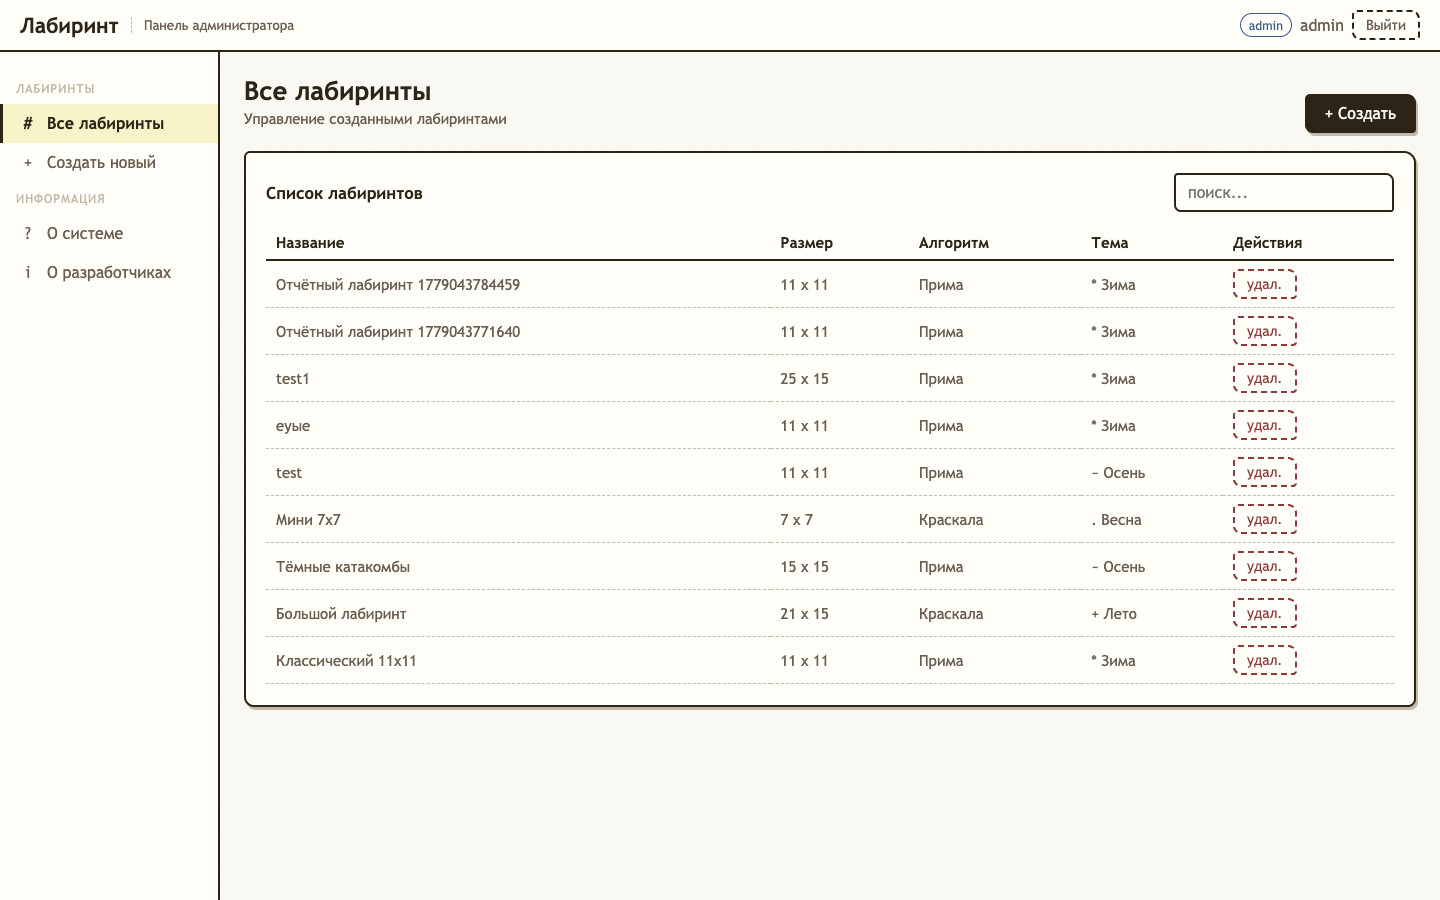
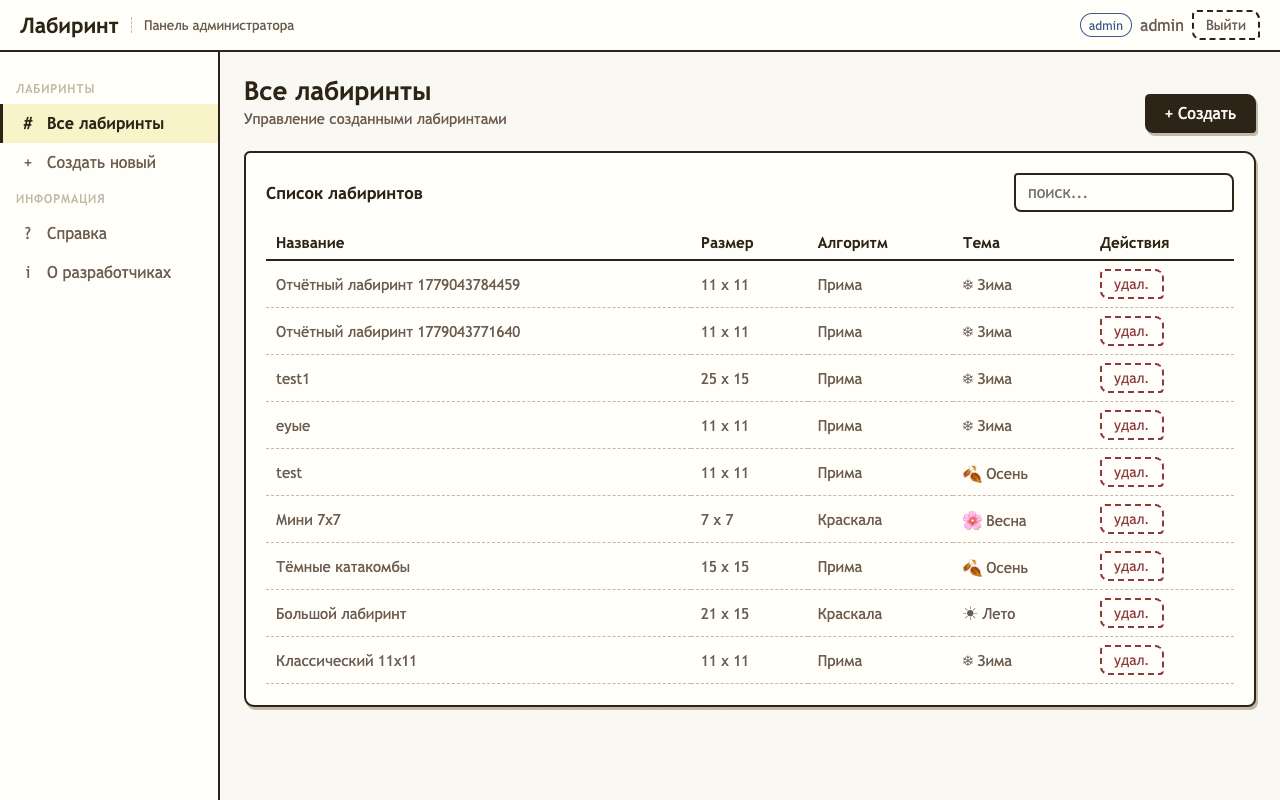
feat: rename help, restyle developers modal, theme emojis, libraries list
- Rename sidebar item "О системе" → "Справка" in admin and player layouts.
- Restyle DevelopersModal to centered "Сведения о разработчиках" layout
  per the reference course-project example.
- Switch theme marks from ASCII (* + ~ .) to seasonal emojis (❄ ☀ 🍂 🌸)
  globally in radio picker, level title and labyrinth cards.
- Add 2.7.6 "Список использованных библиотек" with a reference-style
  table (caption above, two columns Name | Purpose).
- Add a class purpose table to 3.2.3 class diagram section.
- Sync 3.1 interface text to match the new UI wording.
- Refresh screenshots for the changed views.

diff --git a/app/frontend/src/features/help/HelpPage.tsx b/app/frontend/src/features/help/HelpPage.tsx
@@ -84,7 +84,7 @@ function InfoCard({ title, children }: { title: string; children: string }) {
 export function DevelopersModal({ onClose }: { onClose: () => void }) {
   return (
     <AppModal
-      title="О разработчиках"
+      title="Сведения о разработчиках"
       onClose={onClose}
       actions={
         <button className="btn btn-sm btn-primary" type="button" onClick={onClose}>
@@ -92,12 +92,15 @@ export function DevelopersModal({ onClose }: { onClose: () => void }) {
         </button>
       }
     >
-      <div className="modal-body">
-        <p>
-          Фокин Евгений Андреевич, Сидоров Артемий Олегович, группа 6303. Самарский
-          университет, кафедра информационных систем, 2026.
-        </p>
-        <p>Руководитель: Зеленко Лариса Сергеевна.</p>
+      <div className="developers-modal-body">
+        <p>Самарский университет</p>
+        <p>Кафедра программных систем</p>
+        <p>Курсовой проект по дисциплине «Программная инженерия»</p>
+        <p>Тема проекта: «Система генерации и прохождения лабиринтов»</p>
+        <p className="developers-spacer">Разработчики — студенты группы 6303:</p>
+        <p>Фокин Е. А.</p>
+        <p>Сидоров А. О.</p>
+        <p className="developers-spacer">Самара 2026</p>
       </div>
     </AppModal>
   );

diff --git a/app/frontend/src/features/admin/AdminLayout.tsx b/app/frontend/src/features/admin/AdminLayout.tsx
@@ -52,7 +52,7 @@ export function AdminLayout({ user, onLogout }: AdminLayoutProps) {
           className={({ isActive }) => `sidebar-item ${isActive ? 'active' : ''}`}
           to="/admin/help"
         >
-          <span className="sidebar-icon">?</span>О системе
+          <span className="sidebar-icon">?</span>Справка
         </NavLink>
         <button
           className="sidebar-item sidebar-button"

diff --git a/app/frontend/src/app/styles.css b/app/frontend/src/app/styles.css
@@ -652,6 +652,23 @@ a {
   padding: 18px 20px;
 }
 
+.developers-modal-body {
+  display: flex;
+  flex-direction: column;
+  align-items: center;
+  gap: 6px;
+  padding: 24px 28px;
+  text-align: center;
+}
+
+.developers-modal-body p {
+  margin: 0;
+}
+
+.developers-modal-body .developers-spacer {
+  margin-top: 14px;
+}
+
 .modal-actions {
   justify-content: flex-end;
   border-top: 1.5px dashed var(--ink3);

diff --git a/app/frontend/src/features/player/PlayerLayout.tsx b/app/frontend/src/features/player/PlayerLayout.tsx
@@ -426,7 +426,7 @@ export function PlayerLayout({ user, onLogout }: PlayerLayoutProps) {
         <div>
           <div className="panel-title">Информация</div>
           <Link className="btn btn-ghost btn-sm btn-full" to="/player/help">
-            О системе
+            Справка
           </Link>
           <button
             className="btn btn-ghost btn-sm btn-full"

diff --git a/app/frontend/src/shared/ui/labels.ts b/app/frontend/src/shared/ui/labels.ts
@@ -8,10 +8,10 @@ export const themeLabels: Record<LabyrinthTheme, string> = {
 };
 
 export const themeMarks: Record<LabyrinthTheme, string> = {
-  winter: '*',
-  summer: '+',
-  autumn: '~',
-  spring: '.',
+  winter: '❄',
+  summer: '☀',
+  autumn: '🍂',
+  spring: '🌸',
 };
 
 export const algorithmLabels: Record<GenerationAlgorithm, string> = {

diff --git a/report/sections/2.7-software-tools.md b/report/sections/2.7-software-tools.md
@@ -35,3 +35,30 @@ Visual Studio Code выбран из-за удобной навигации по
 Для серверной части выбран NestJS 11. Данный фреймворк позволяет строить модульную серверную часть, разделять ответственность между модулями авторизации, пользователей и лабиринтов, а также описывать REST API.
 
 Для управления зависимостями используется npm 10.9.3. Для локального запуска базы данных применяется Docker Compose с образом PostgreSQL 16. Для построения UML-диаграмм используется PlantUML. Для контроля версий используется Git и удаленный репозиторий GitHub.
+
+### 2.7.6 Список использованных библиотек
+
+При реализации системы «Лабиринт» использован ряд готовых библиотек для построения пользовательского интерфейса, маршрутизации, обработки HTTP-запросов, доступа к базе данных, валидации входных данных, авторизации и работы с сессионными cookie. Использование готовых библиотек позволяет сократить объем разработки и сосредоточиться на прикладной логике системы. Перечень основных библиотек, их версии и назначение приведены в таблице N.
+
+Таблица N – Использованные библиотеки
+
+| Название | Назначение |
+| --- | --- |
+| react 19.1.1 | Библиотека построения пользовательского интерфейса клиентской части |
+| react-dom 19.1.1 | Рендеринг React-компонентов в DOM браузера |
+| react-router-dom 7.14.2 | Маршрутизация между экранами авторизации, администратора и игрока |
+| vite 7.1.9 | Сборщик и сервер разработки клиентской части |
+| @vitejs/plugin-react 5.0.4 | Плагин Vite для поддержки React и JSX |
+| typescript 5.9.3 | Компилятор и система статической типизации |
+| @nestjs/core 11.1.6 | Ядро серверного фреймворка NestJS |
+| @nestjs/common 11.1.6 | Базовые декораторы, контроллеры и провайдеры NestJS |
+| @nestjs/platform-express 11.1.6 | Реализация HTTP-слоя NestJS на базе Express |
+| @nestjs/jwt 11.0.2 | Создание и проверка JWT-токенов авторизации |
+| @prisma/client 6.16.3 | Клиент Prisma ORM для работы с PostgreSQL |
+| bcrypt 6.0.0 | Хеширование паролей пользователей |
+| class-validator 0.15.1 | Декларативная валидация данных DTO |
+| class-transformer 0.5.1 | Преобразование данных DTO и доменных объектов |
+| cookie-parser 1.4.7 | Разбор cookie из HTTP-запросов |
+| dotenv 17.2.3 | Загрузка переменных окружения из файла .env |
+| reflect-metadata 0.2.2 | Поддержка метаданных декораторов NestJS |
+| rxjs 7.8.2 | Реактивные потоки, используемые внутри NestJS |

diff --git a/report/sections/3.2.3-class-diagram.md b/report/sections/3.2.3-class-diagram.md
@@ -6,6 +6,25 @@
 
 Рисунок N – Описание классов системы на этапе реализации
 
+Назначение классов системы приведено в таблице N.
+
+| Название класса | Назначение |
+| --- | --- |
+| User | Учетная запись пользователя с ролью администратора или игрока |
+| LabyrinthsController | Контроллер HTTP-запросов клиента к серверной части |
+| LabyrinthsService | Сервис прикладной логики операций с лабиринтами |
+| LabyrinthGame | Доменный класс лабиринта, хранит параметры и управляет генерацией и решением |
+| Maze | Сетка клеток лабиринта и операции расстановки входа и выхода |
+| Coordinate | Координаты клетки лабиринта (строка и столбец) |
+| SolutionPath | Результат автоматического решения лабиринта (алгоритм, путь, число шагов) |
+| GridValidation | Проверки размеров, координат, толстостенности и связности сетки |
+| PrimGenerator | Генерация лабиринта алгоритмом Прима |
+| KruskalGenerator | Генерация лабиринта алгоритмом Краскала |
+| BfsSolver | Поиск кратчайшего пути волновым алгоритмом |
+| RightHandSolver | Поиск пути методом правой руки |
+
+Таблица N – Назначение классов системы
+
 Диаграмма отражает основные классы и модули реализации серверной части. `LabyrinthsController` принимает HTTP-запросы клиента и передает их в `LabyrinthsService`. Сервис выполняет операции получения списка лабиринтов, генерации, создания, удаления, проверки названия и решения лабиринта.
 
 Основная доменная логика сосредоточена в `LabyrinthGame`. Этот класс хранит параметры лабиринта, управляет генерацией и вызывает алгоритмы решения. Класс `Maze` содержит сетку клеток и операции установки входа и выхода. Для представления координат используется класс `Coordinate`.

diff --git a/report/sections/3.1-interface.md b/report/sections/3.1-interface.md
@@ -66,14 +66,14 @@
 
 Рисунок N – Окно завершения уровня
 
-Справочная информация о системе вынесена на отдельную страницу. На ней описаны назначение приложения, роли пользователей, правила создания лабиринтов и способы прохождения.
+Справочная информация о системе вынесена на отдельную страницу «Справка». На ней описаны назначение приложения, роли пользователей, правила создания лабиринтов и способы прохождения.
 
-![Рисунок N – Страница "О системе"](../images/help-system.png)
+![Рисунок N – Страница "Справка"](../images/help-system.png)
 
-Рисунок N – Страница "О системе"
+Рисунок N – Страница "Справка"
 
-Информация о разработчиках отображается в отдельном модальном окне. Модальное окно открывается поверх текущего экрана и не сбрасывает состояние работы администратора или игрока.
+Сведения о разработчиках отображаются в отдельном модальном окне. Модальное окно открывается поверх текущего экрана и не сбрасывает состояние работы администратора или игрока.
 
-![Рисунок N – Модальное окно "О разработчиках"](../images/developers-modal.png)
+![Рисунок N – Модальное окно "Сведения о разработчиках"](../images/developers-modal.png)
 
-Рисунок N – Модальное окно "О разработчиках"
+Рисунок N – Модальное окно "Сведения о разработчиках"
